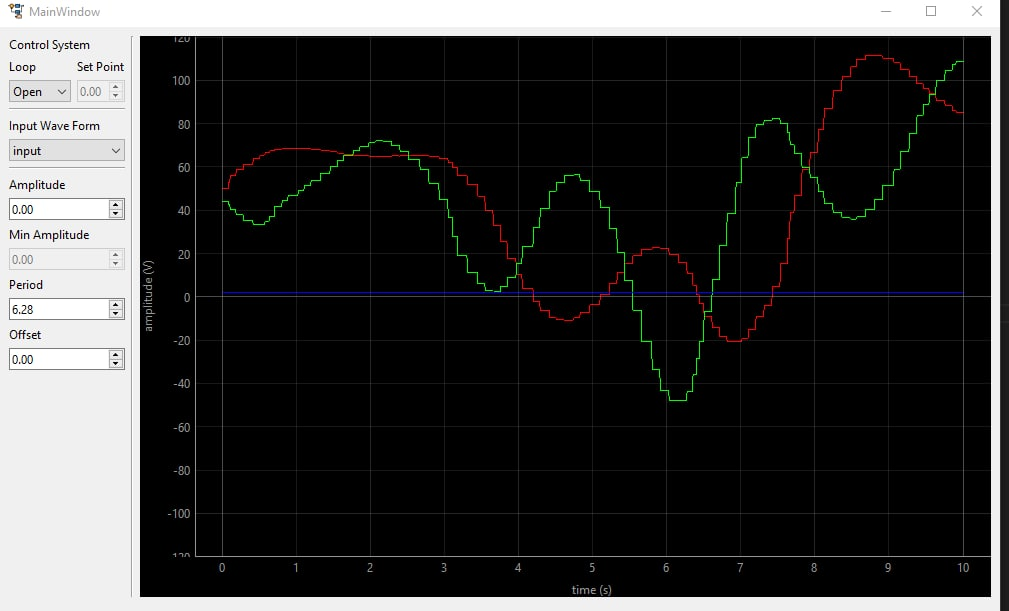
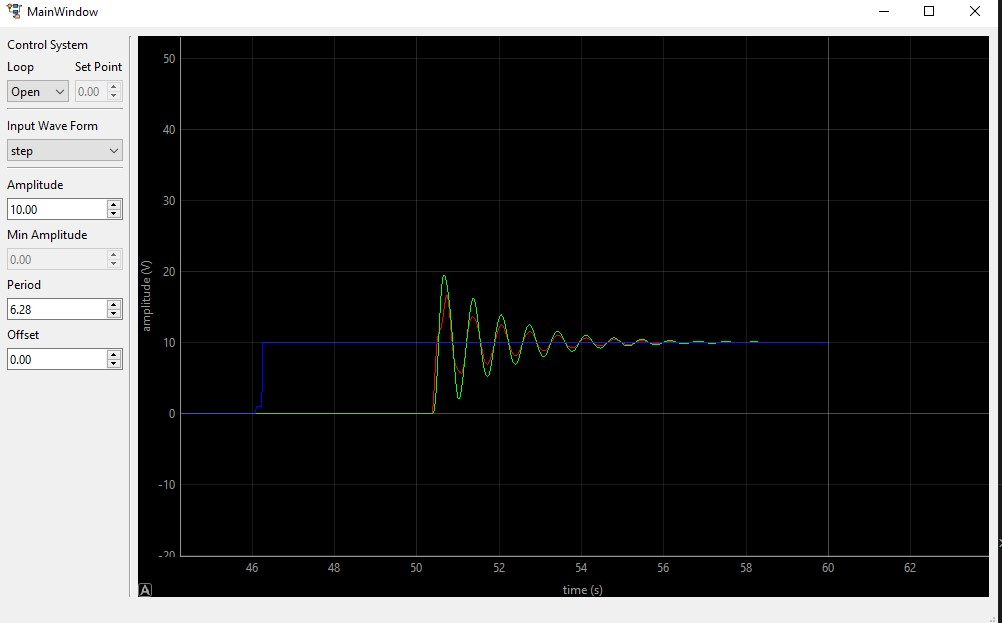
input implementation, max amplitude

diff --git a/dynamic_plotter.py b/dynamic_plotter.py
@@ -1,3 +1,5 @@
+import queue
+from click import style
 from pyqtgraph.Qt import QtCore
 import pyqtgraph as pg
 from scipy import signal
@@ -13,7 +15,7 @@ import numpy as np
 
 class DynamicPlotter:
     def __init__(
-            self, widget, queue, sampleinterval=0.05, timewindow=10.0,
+            self, widget, queue_out, queue_in, sampleinterval=0.05, timewindow=10.0,
             size=(600, 350)):
         # Data stuff
         self._interval = int(sampleinterval * 1000)
@@ -24,10 +26,13 @@ class DynamicPlotter:
             [0.0] * self._bufsize, self._bufsize)
         self.databuffer_b = collections.deque(
             [0.0] * self._bufsize, self._bufsize)
+        self.databuffer_p = collections.deque(
+            [0.0] * self._bufsize, self._bufsize)
         self.x = np.linspace(0.0, timewindow, self._bufsize)
         self.y_r = np.zeros(self._bufsize, dtype=np.float)
         self.y_g = np.zeros(self._bufsize, dtype=np.float)
         self.y_b = np.zeros(self._bufsize, dtype=np.float)
+        self.y_p = np.zeros(self._bufsize, dtype=np.float)
         self.plt = pg.PlotWidget(widget)
         self.plt.setYRange(-100.0, 100.0)
         self.plt.showGrid(x=True, y=True)
@@ -42,7 +47,8 @@ class DynamicPlotter:
         self.minAmplitude = 0.0
         self.period = 2*np.pi
         self.offset = 0.0
-        self.queue = queue
+        self.queue_out = queue_out
+        self.queue_in = queue_in
         self.last_value = [0.0, 0.0, 0.0]
         # QTimer
         self.timer = QtCore.QTimer()
@@ -68,7 +74,9 @@ class DynamicPlotter:
         return self.plt
 
     def get_data(self):
-        return getattr(self, self.plot_func)(time.time(), self.queue)
+        data = getattr(self, self.plot_func)(time.time(), self.queue_out)
+        self.queue_in.put(data[0])
+        return data
 
     def updateplot(self):
         data = self.get_data()
@@ -85,28 +93,28 @@ class DynamicPlotter:
         self.curve_r.setData(self.x, self.y_r)
         self.curve_g.setData(self.x, self.y_g)
 
-    def step(self, t, queue):
-        return [self.maxAmplitude, 0, 0]
-
-    def sine(self, t, queue):
-        return [self.maxAmplitude * np.sin(
-            (2*np.pi/self.period)*t
-        ) + self.offset*np.ones_like(t), 0, 0]
-
-    def square(self, t, queue):
-        return [self.maxAmplitude * signal.square(
-            (2*np.pi/self.period)*t
-        ) + self.offset, 0, 0]
-
-    def sawtooth(self, t, queue):
-        return [self.maxAmplitude * signal.sawtooth(
-            (2*np.pi/self.period)*t
-        ) + self.offset, 0, 0]
-
-    def random(self, t, queue):
-        return [self.maxAmplitude, 0, 0]
-
-    def input(self, t, queue):
-        if not queue.empty():
-            self.last_value = queue.get()
+    def simulator(self, queue_out):
+        if not queue_out.empty():
+            self.last_value = queue_out.get()
         return self.last_value
+
+    def step(self, t, queue_out):
+        return [self.maxAmplitude] + self.simulator(queue_out)
+
+    def sine(self, t, queue_out):
+        return [self.maxAmplitude * np.sin(
+                (2*np.pi/self.period)*t
+                ) + self.offset*np.ones_like(t)] + self.simulator(queue_out)
+
+    def square(self, t, queue_out):
+        return [self.maxAmplitude * signal.square(
+                (2*np.pi/self.period)*t
+                ) + self.offset] + self.simulator(queue_out)
+
+    def sawtooth(self, t, queue_out):
+        return [self.maxAmplitude * signal.sawtooth(
+                (2*np.pi/self.period)*t
+                ) + self.offset] + self.simulator(queue_out)
+
+    def random(self, t, queue_out):
+        return [self.maxAmplitude] + self.simulator(queue_out)

diff --git a/main_window.py b/main_window.py
@@ -64,7 +64,7 @@ class Ui_MainWindow(object):
         self.comboBoxWaveForm.addItem("")
         self.comboBoxWaveForm.addItem("")
         self.comboBoxWaveForm.addItem("")
-        self.comboBoxWaveForm.addItem("")
+        # self.comboBoxWaveForm.addItem("")
         self.formLayout.addWidget(self.comboBoxWaveForm)
         self.horizontalLine_2 = QtWidgets.QFrame(self.centralWidget)
         self.horizontalLine_2.setFrameShape(QtWidgets.QFrame.Shape.HLine)
@@ -80,8 +80,8 @@ class Ui_MainWindow(object):
         self.verticalLayout_3.addWidget(self.labelMaxAmplitude)
         self.doubleBoxMaxAmplitude = QtWidgets.QDoubleSpinBox(
             self.centralWidget)
-        self.doubleBoxMaxAmplitude.setMinimum(0.0)
-        self.doubleBoxMaxAmplitude.setMaximum(1.0)
+        self.doubleBoxMaxAmplitude.setMinimum(-100.0)
+        self.doubleBoxMaxAmplitude.setMaximum(100.0)
         self.doubleBoxMaxAmplitude.setSingleStep(0.01)
         self.doubleBoxMaxAmplitude.setProperty("value", 0.0)
         self.doubleBoxMaxAmplitude.setObjectName("doubleBoxMaxAmplitude")
@@ -171,8 +171,8 @@ class Ui_MainWindow(object):
             3, _translate("MainWindow", "sawtooth"))
         self.comboBoxWaveForm.setItemText(
             4, _translate("MainWindow", "random"))
-        self.comboBoxWaveForm.setItemText(
-            5, _translate("MainWindow", "input"))
+        # self.comboBoxWaveForm.setItemText(
+        # 5, _translate("MainWindow", "input"))
         self.labelMaxAmplitude.setText(_translate("MainWindow", "Amplitude"))
         self.labelMinAmplitude.setText(
             _translate("MainWindow", "Min Amplitude"))

diff --git a/test.py b/test.py
@@ -13,35 +13,41 @@ import time
 
 from queue import Queue
 
-queue = Queue(maxsize=100)
+queue_out = Queue(maxsize=100)
+queue_in = Queue(maxsize=100)
 
 
 async def echo(websocket):
     while True:
         try:
+            startTime = time.time()
             await websocket.send("get references")
             received = (await websocket.recv()).split(",")
-            # print("Reference: " + received[1])
+            # queue_ref.put(received)
+            # print(received)
             await websocket.send("get outputs")
             received = (await websocket.recv()).split(",")
-            #print("Outputs: " + received[1])
-            queue.put(received)
-            time.sleep(0.05)
+            # print("Outputs: " + received[1])
+            queue_out.put(received)
+            while queue_in.empty():
+                time.sleep(0.0001)
+
+            await websocket.send("set input|"+str(queue_in.get()))
+            ellapsedTime = 0.0
+            while ellapsedTime < 0.01:
+                time.sleep(0.0001)
+                endTime = time.time()
+                ellapsedTime = endTime - startTime
         except Exception as e:
             print(e)
             return
-
-
-async def foo():
-    async with websockets.serve(echo, "localhost", 6660):
-        await asyncio.Future()
 
 
 def view():
 
     gui = QtWidgets.QApplication(sys.argv)
 
-    window = app.MainWindow(queue)
+    window = app.MainWindow(queue_out, queue_in)
     window.setWindowIcon(QtGui.QIcon("qtui/feedback.png"))
     window.show()
     gui.exec()

diff --git a/app.py b/app.py
@@ -9,12 +9,12 @@ from queue import Queue
 
 
 class MainWindow(QtWidgets.QMainWindow, Ui_MainWindow):
-    def __init__(self, queue, *args, obj=None, **kwargs):
+    def __init__(self, queue_out, queue_in, *args, obj=None, **kwargs):
         super(MainWindow, self).__init__(*args, **kwargs)
         self.setupUi(self)
 
         self.dynamic_plotter = DynamicPlotter(
-            self.centralWidget, queue, 0.01, timewindow=60)
+            self.centralWidget, queue_out, queue_in, 0.01, timewindow=60)
 
         self.graphWidget = self.dynamic_plotter.get_plot_widget()
         self.graphWidget.setObjectName("graphWidget")

diff --git a/README.md b/README.md
@@ -70,8 +70,8 @@ $ pip install -r requeriments.txt
 ```console
 $ python3 test.py
 ```
-Selecione a curva *input*.
-
 Em seguida, abra o [simulador](https://dev-mind.blog/apps/control_systems/iDynamic/system6.html). Clique em *Control* e em *Play*.
+
+Selecione a forma de onda de entrada e altere a amplitude.
 
 ![print](images/graph.jpg)
